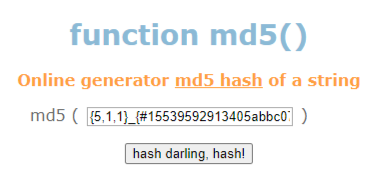
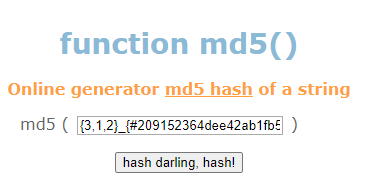
fix: update md5 images

diff --git a/src/components/game-guide/fish-prawn-crab/th/index.tsx b/src/components/game-guide/fish-prawn-crab/th/index.tsx
@@ -90,8 +90,8 @@ const FishPrawnCrabGuideTH: React.FC<GameGuideProps<GameConfigProps, MaxBetChoic
                         locale={props.locale}
                         step1ImageUrl={"/static/images/fish-prawn-crab/md5_step1_th.png?v=4"}
                         step2ImageUrl={"/static/images/fish-prawn-crab/md5_step2_th.png?v=4"}
-                        step3ImageUrl={"/static/images/fish-prawn-crab/md5_step3_en.png?v=4"}
-                        step4ImageUrl={"/static/images/fish-prawn-crab/md5_step4_en.png?v=4"}
+                        step3ImageUrl={"/static/images/fish-prawn-crab/md5_step3_en.png?v=5"}
+                        step4ImageUrl={"/static/images/fish-prawn-crab/md5_step4_en.png?v=5"}
                         note={
                             <div>หมายเหตุ: จากซ้ายไปขวา {"{3, 1, 2}"} จะตรงกับหมายเลขที่กำหนดของแต่ละสัญลักษณ์ที่ปรากฏบนลูกเต๋าสามลูก</div>
                         }

diff --git a/src/components/game-guide/fish-prawn-crab/en/index.tsx b/src/components/game-guide/fish-prawn-crab/en/index.tsx
@@ -95,8 +95,8 @@ const FishPrawnCrabGuideEN: React.FC<GameGuideProps<GameConfigProps, MaxBetChoic
                         locale={props.locale}
                         step1ImageUrl={"/static/images/fish-prawn-crab/md5_step1_en.png?v=4"}
                         step2ImageUrl={"/static/images/fish-prawn-crab/md5_step2_en.png?v=4"}
-                        step3ImageUrl={"/static/images/fish-prawn-crab/md5_step3_en.png?v=4"}
-                        step4ImageUrl={"/static/images/fish-prawn-crab/md5_step4_en.png?v=4"}
+                        step3ImageUrl={"/static/images/fish-prawn-crab/md5_step3_en.png?v=5"}
+                        step4ImageUrl={"/static/images/fish-prawn-crab/md5_step4_en.png?v=5"}
                         note={
                             <div>
                                 Note: From the left to right, &#123;3, 1, 2&#125; correspond to the assigned number of each symbol that

diff --git a/src/components/game-guide/fish-prawn-crab/id/index.tsx b/src/components/game-guide/fish-prawn-crab/id/index.tsx
@@ -93,8 +93,8 @@ const FishPrawnCrabGuideID: React.FC<GameGuideProps<GameConfigProps, MaxBetChoic
                         locale={props.locale}
                         step1ImageUrl={"/static/images/fish-prawn-crab/md5_step1_id.png?v=5"}
                         step2ImageUrl={"/static/images/fish-prawn-crab/md5_step2_id.png?v=4"}
-                        step3ImageUrl={"/static/images/fish-prawn-crab/md5_step3_en.png?v=4"}
-                        step4ImageUrl={"/static/images/fish-prawn-crab/md5_step4_en.png?v=4"}
+                        step3ImageUrl={"/static/images/fish-prawn-crab/md5_step3_en.png?v=5"}
+                        step4ImageUrl={"/static/images/fish-prawn-crab/md5_step4_en.png?v=5"}
                         note={
                             <div>
                                 Catatan: Dari kiri ke kanan, {"{3, 1, 2}"} sesuai dengan nomor yang ditetapkan untuk setiap simbol yang

diff --git a/src/components/game-guide/fish-prawn-crab/zh_cn/index.tsx b/src/components/game-guide/fish-prawn-crab/zh_cn/index.tsx
@@ -86,8 +86,8 @@ const FishPrawnCrabGuideCN: React.FC<GameGuideProps<GameConfigProps, MaxBetChoic
                         locale={props.locale}
                         step1ImageUrl={"/static/images/fish-prawn-crab/md5_step1_zh_cn.png?v=4"}
                         step2ImageUrl={"/static/images/fish-prawn-crab/md5_step2_zh_cn.png?v=4"}
-                        step3ImageUrl={"/static/images/fish-prawn-crab/md5_step3_en.png?v=4"}
-                        step4ImageUrl={"/static/images/fish-prawn-crab/md5_step4_en.png?v=4"}
+                        step3ImageUrl={"/static/images/fish-prawn-crab/md5_step3_en.png?v=5"}
+                        step4ImageUrl={"/static/images/fish-prawn-crab/md5_step4_en.png?v=5"}
                         note={<div>注：从左到右，{"{3, 1, 2}"} 分别对应出现在三个骰子上的每个符号的指定编号</div>}
                     />
                 )}

diff --git a/src/components/game-guide/fish-prawn-crab/zh_tw/index.tsx b/src/components/game-guide/fish-prawn-crab/zh_tw/index.tsx
@@ -86,8 +86,8 @@ const FishPrawnCrabGuideTW: React.FC<GameGuideProps<GameConfigProps, MaxBetChoic
                         locale={props.locale}
                         step1ImageUrl={"/static/images/fish-prawn-crab/md5_step1_zh_tw.png?v=4"}
                         step2ImageUrl={"/static/images/fish-prawn-crab/md5_step2_zh_tw.png?v=4"}
-                        step3ImageUrl={"/static/images/fish-prawn-crab/md5_step3_en.png?v=4"}
-                        step4ImageUrl={"/static/images/fish-prawn-crab/md5_step4_en.png?v=4"}
+                        step3ImageUrl={"/static/images/fish-prawn-crab/md5_step3_en.png?v=5"}
+                        step4ImageUrl={"/static/images/fish-prawn-crab/md5_step4_en.png?v=5"}
                         note={<div>注：從左到右，{"{3, 1, 2}"} 分別對應出現在三個骰子上的每個符號的指定編號</div>}
                     />
                 )}
